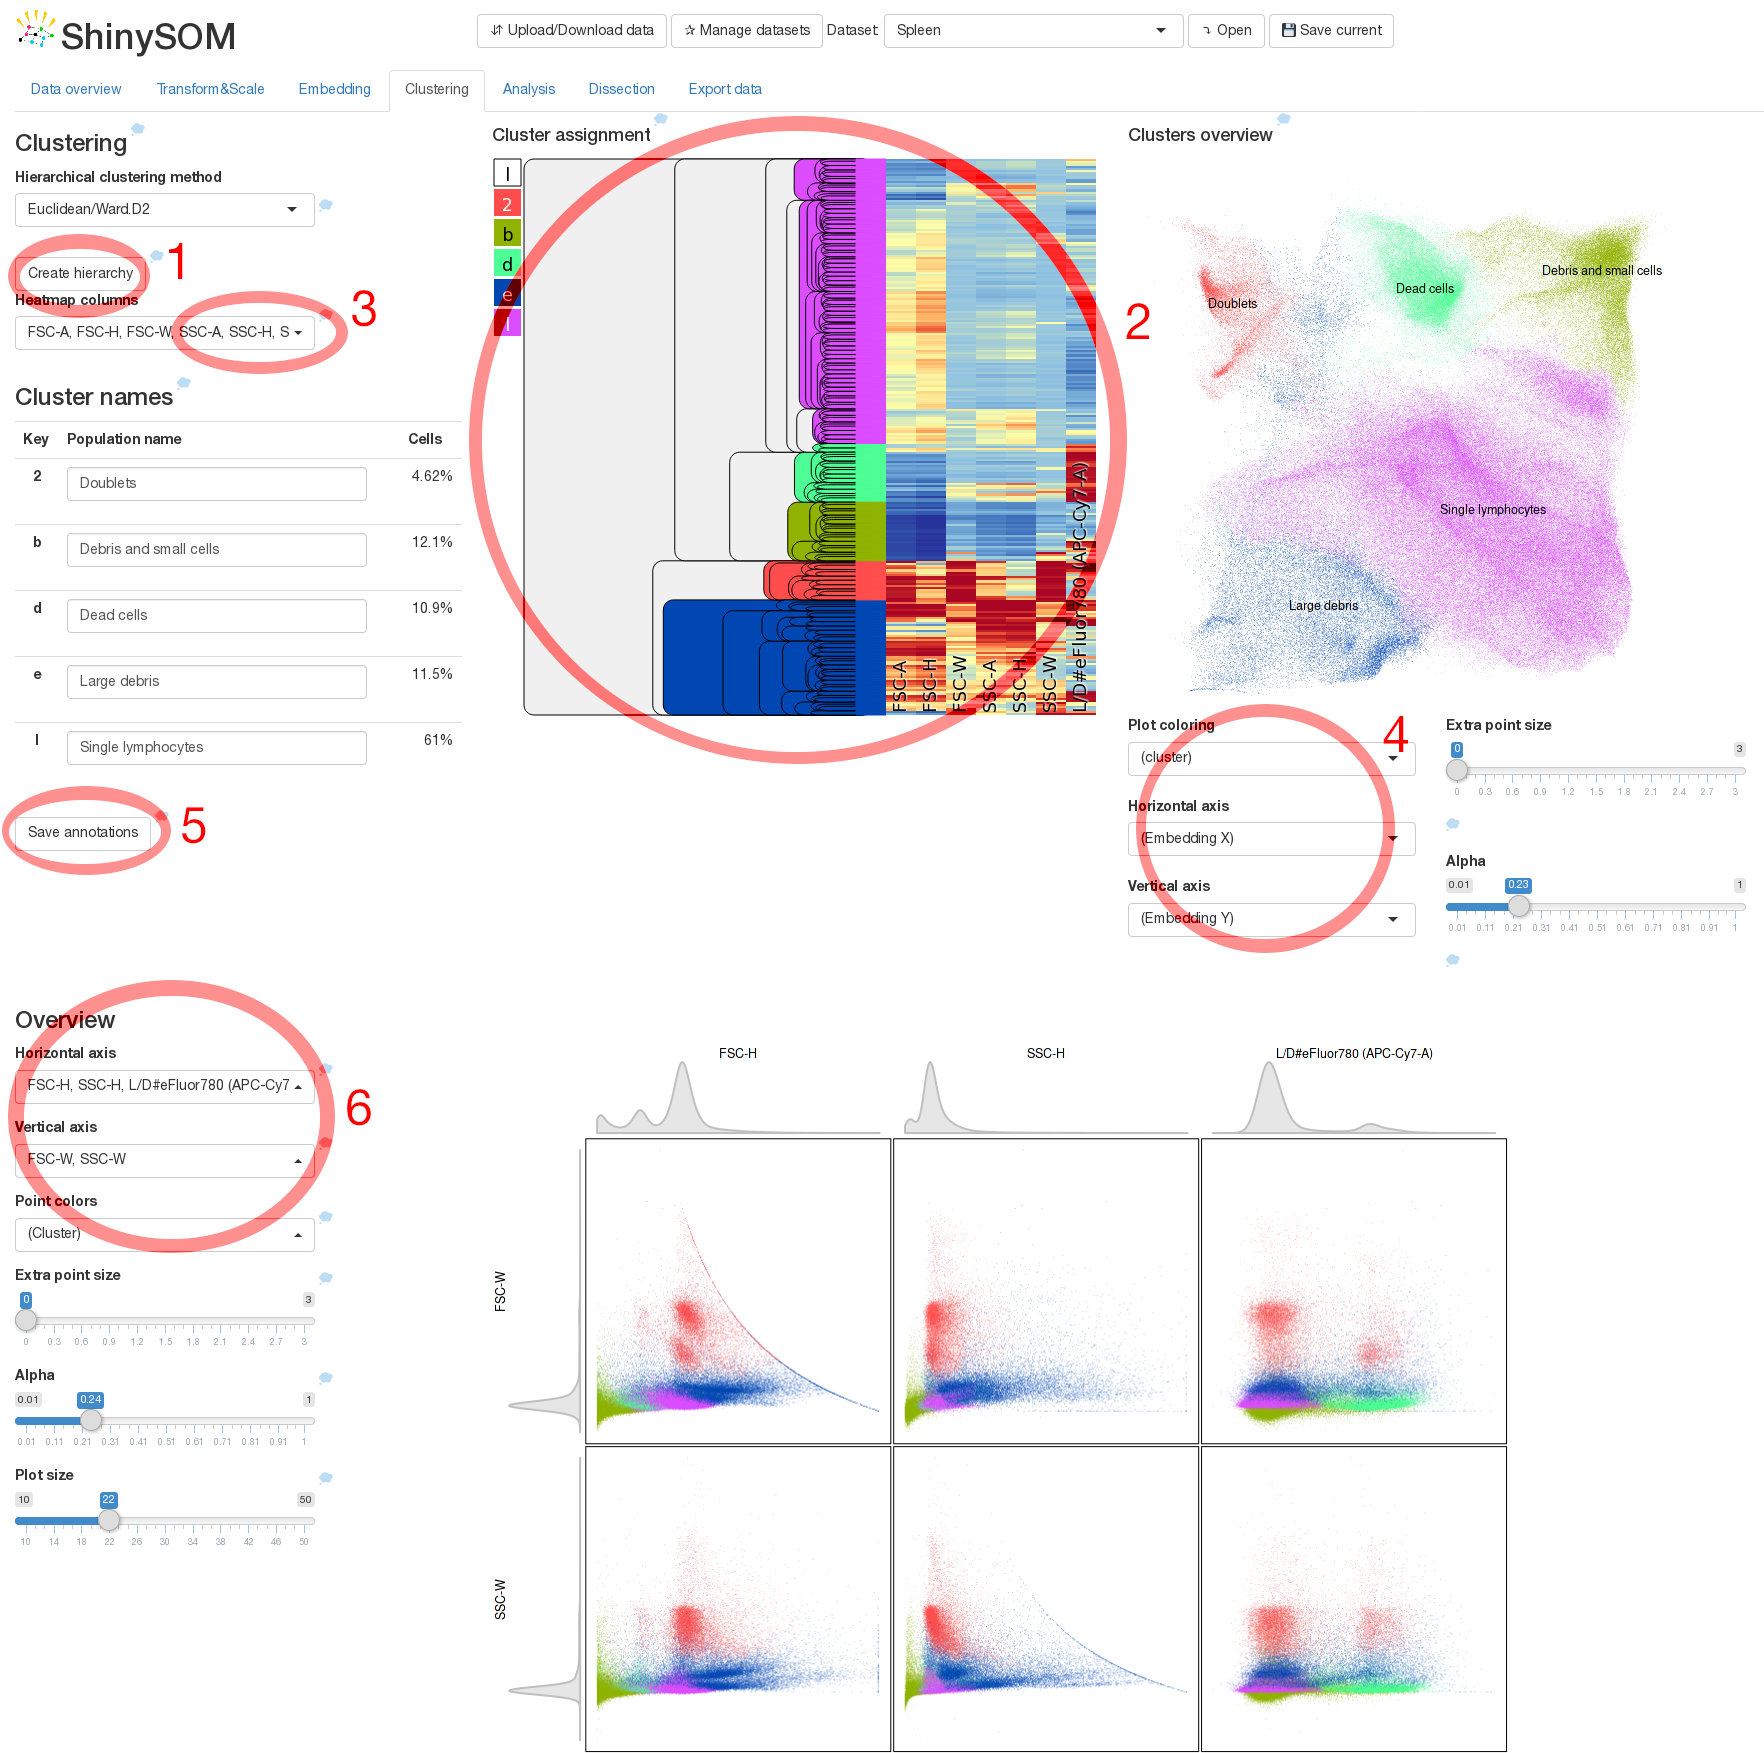
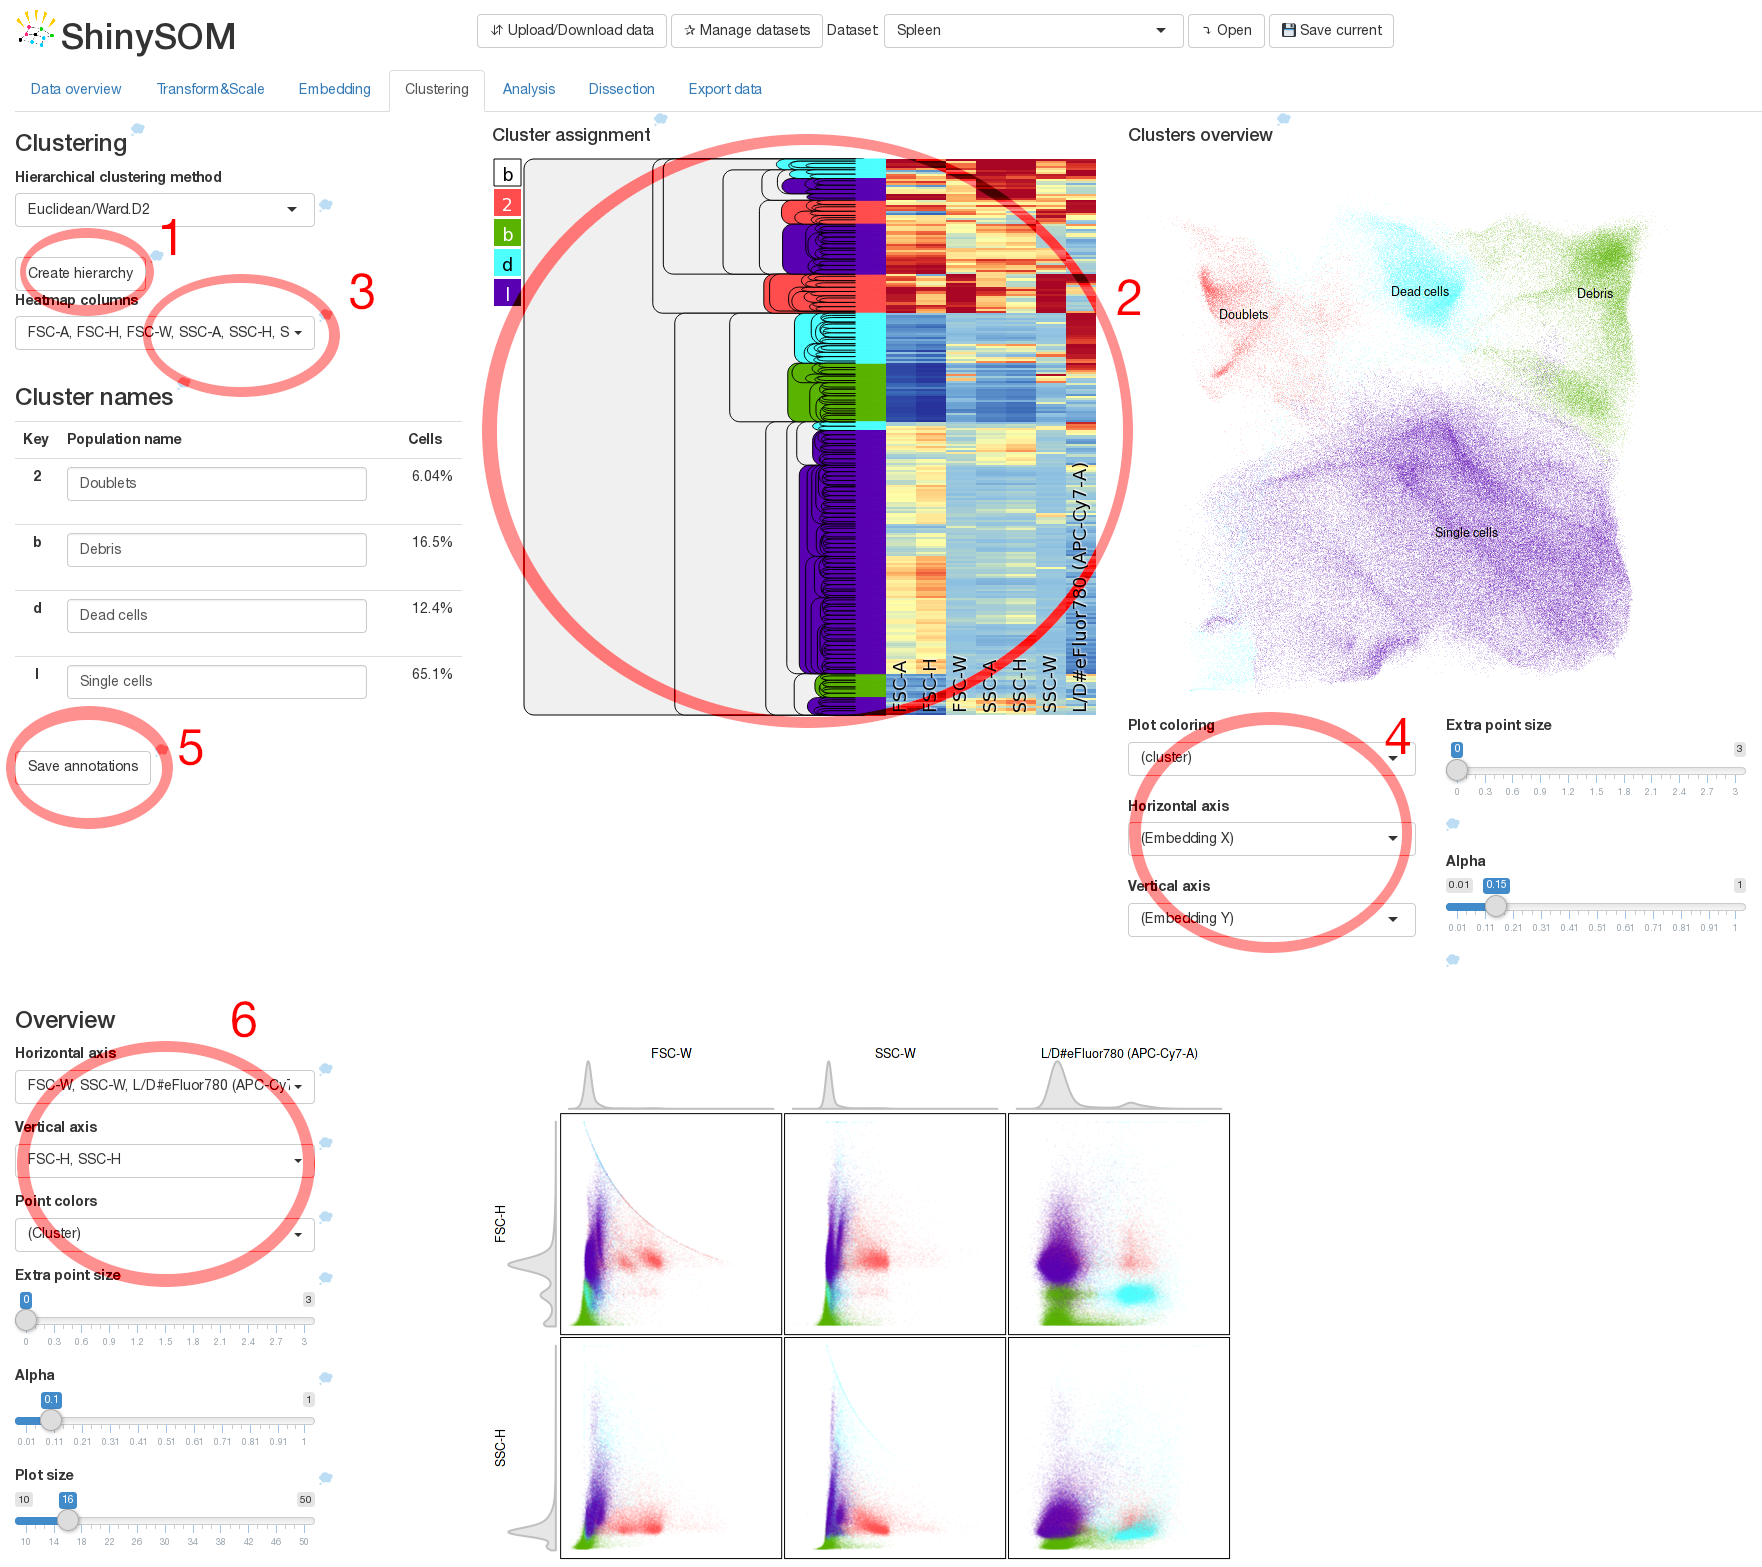
tutorial update

diff --git a/TUTORIAL.md b/TUTORIAL.md
@@ -110,8 +110,8 @@ The populations are selected in a [shinyDendro](https://github.com/exaexa/shinyD
 ![creating a subset dataset](media/tutorial-cluster.png?raw=true)
 
 1. First, in the **Clustering** tab, we create a dendrogram structure using a selected hierarchical clustering algorithm.
-2. The populations are selected in the dendrogram as such: First, a keyboard button (any of `a` to `z` and `0` to `9`) chooses the cluster color ("key"); clicking in the dendrogram causes the whole branch of the tree to be painted by the chosen color. This choice is immediately visible in the embedding on the right. Additionally, the embedding plot can be used for brushing -- drawing a rectangle around cells in the view highlights the selected cells in the dendrogram.
-3. Markers used for embedding may be displayed next to the dendrogram as a heatmap, to aid cluster identification.
+2. The populations are selected in the dendrogram as such: After clicking (and focusing) the shinyDendro interface, keyboard is used to choose a single-letter cluster "key" (any of `a` to `z` and `0` to `9`); cluster key represents an unique assigned classification, which is, put more simply, the "cluster color". Clicking in the dendrogram causes the clicked branch of the tree to be painted by this chosen color. Resulting classification is immediately visible in the embedding on the right. Additionally, the embedding plot can be used for brushing -- drawing a rectangle around cells in the view highlights the selected cells in the dendrogram.
+3. Cell parameters may be displayed next to the dendrogram as a heatmap, in order to aid cluster identification.
 4. The embedding view can be quickly colored by any marker expression or converted to display the usual 2-dimensional dotplot (with the same possibility of brushing).
 5. After the desired populations are selected, we can assign them interpretable names and save them. That makes the named populations available to the final parts of the workflow (mainly analysis and subset dissection).
 6. The clustered cells may be immediately observed in a more complicated scatterplot structure, using the same interface as in Overview.
@@ -130,22 +130,23 @@ After reducing the dataset, we have embedded and dissected it again, to get a co
 
 ![creating a subset dataset](media/tutorial-cluster2.png?raw=true)
 
-Compared to the processing of the original dataset, there are two main changes:
+Compared to the processing of the original dataset, there are three main changes:
 - it was _not_ necessary to transform the dataset again (the data stays transformed from the previous step)
 - we have avoided the use of the scatter and L/D cell parameters for SOM and embedding, and focused only on the lineage markers
+- we used 24x24 SOM size for increased detail of the small populations
 
-The screenshot shows dissection of the populations into B cells (brushed), T cells, and several other cell types.
+The screenshot shows dissection of the populations into B cells, T cells, and several other cell types. (Clusters of macrophages, dendritic cells and neutrophils were selected by brushing in the embedded cells, which highlighted their corresponding data in the dendrogram interface.)
 
 ## Simple analyses
 
-ShinySOM offers several useful analyses for getting a good overview of the contents of the selected populations and their differences in individual files. These are available as sub-tabs in the **Analysis** tab:
+ShinySOM offers several useful analyses for getting a good overview of the contents of the selected populations and the differences between individual files. These are available as sub-tabs in the **Analysis** tab:
 
 - Tab **Cluster expressions** allows quick visual comparison of expression of markers in files and clusters. This is useful e.g. for monitoring various activation-related markers (various cytokines) in samples with different stimulation. Unfortunately, the dataset we chose does not contain a viable marker for this analysis; but the view can still be used at least for verifying marker expression strength is roughly equal in all files:
 ![Cluster expressions](media/tutorial-clustexpr.png?raw=true)
 - Tab **Cluster size heatmap** provides a visual representation of relative cluster cell count in different files (the R-originated heatmap additionally attempts to group the clusters and files by relative similarity and draws a dendrogram to express it). The data is normalized by columns to show changes in cluster contents well. Precise cell counts for each cluster and file can be exported in a CSV file using the **Export data** tab.
 ![Clusters vs. files heatmap](media/tutorial-heatmap.png?raw=true)
 - Tab **Compare files** allows seeing the difference between two different file groups in the embedding, giving a quick visual comparison of presence of various cell populations.
-- Tab **Significance plots** improves this view by precisely expressing the significance of the cluster size difference by coloring based on statistical testing results. P-values from testing the cluster sizes from "control" and "experiment" group for one-sided inequality are used as a basis the coloring. Using the significance plots, it is easy to detect even small (but statistically significant) differences in size of the populations. In our example, the significance plot confirms the findings from the heatmap, but since the statistical significance of the difference is relatively low (p-value is around 0.15 for both B and T cell clusters), the p-value transform slider needs to be adjusted for actually seeing the colors:
+- Tab **Significance plots** improves this view by precisely expressing the significance of the cluster size difference by coloring based on statistical testing results. P-values from testing the cluster sizes from "control" and "experiment" group for one-sided inequality are used as a basis the coloring. Significance plots are designed for detection of small statistically significant differences in size of the populations. In our example, the significance plot confirms the findings from the heatmap. Because the statistical significance of the difference is relatively low (p-value is around 0.15 for both B and T cell clusters), the p-value slider needs to be adjusted in order to see the coloring:
 ![Significance plots](media/tutorial-sig.png?raw=true)
 
 ## Data export
